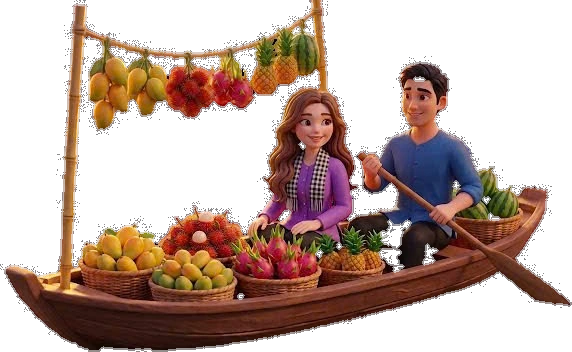
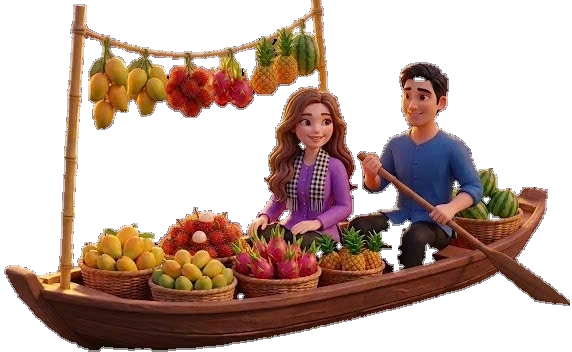
Khử nốt viền nhiễu ở ảnh ghe Hương + Thầy Tú trên trang chủ (#625)
Ảnh huong-tu-ghe-chonoi.webp (thuyền nhỏ trôi gần phần hero trang chủ)
bị cùng lỗi lấm tấm quanh viền tóc/thuyền như huong-cut.webp vừa sửa ở
PR #624 — chưa được rà khi đó vì không nằm trong các vị trí đã kiểm tra.
Áp cùng kỹ thuật khử nhiễu (morphological opening + loại đảo nhỏ rời).
Tăng version cache sw.js.

diff --git a/sw.js b/sw.js
@@ -1,7 +1,7 @@
 /* BizOn Bật Nghiệp 2026 – Service Worker (offline app shell)
  * © 2026 Đỗ Thùy Hương & Phan Anh Tú. Bảo lưu mọi quyền. */
 
-const CACHE = 'bizon-v350';
+const CACHE = 'bizon-v351';
 const SHELL = [
   './',
   './index.html',
